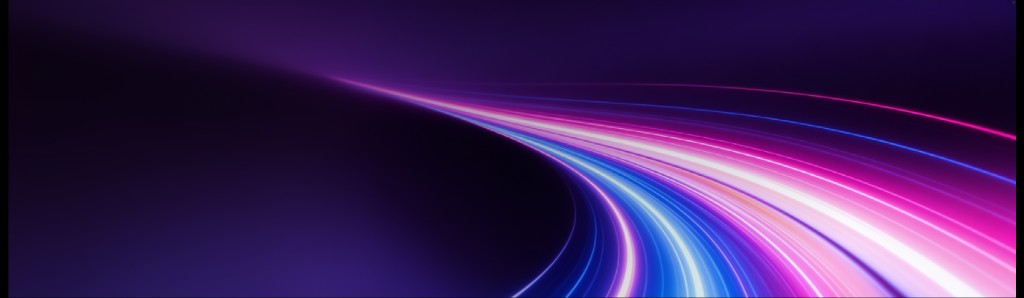
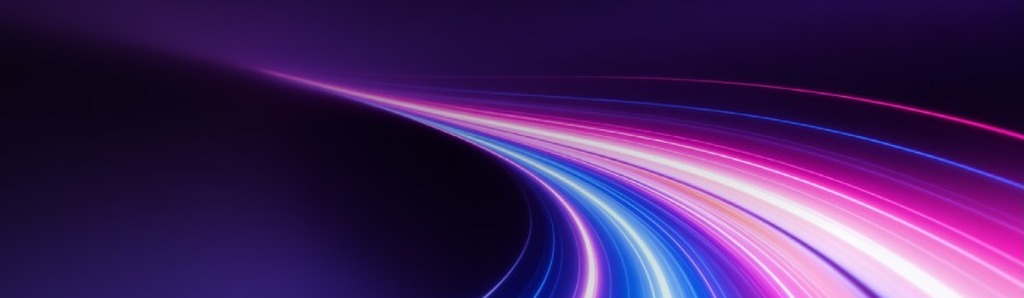
Fill black gap on streak breaker backgrounds.
Zoom and edge-extend the streaks art so it reaches the banner’s right edge.

diff --git a/about.html b/about.html
@@ -13,7 +13,7 @@
   <link rel="stylesheet" href="hero.css?v=53">
   <link rel="stylesheet" href="sections.css?v=30">
   <link rel="stylesheet" href="faq.css?v=12">
-  <link rel="stylesheet" href="seo-page.css?v=14">
+  <link rel="stylesheet" href="seo-page.css?v=15">
   <link rel="stylesheet" href="button-hovers.css?v=20260605">
 </head>
 <body>

diff --git a/seo-page.css b/seo-page.css
@@ -102,7 +102,8 @@
 
 .seo-banner--streaks {
   background-image: url('assets/branding/gradients/seo-banner-bg-streaks.jpg');
-  background-position: center right;
+  background-size: 112% 112%;
+  background-position: right center;
 }
 
 .seo-banner p {
